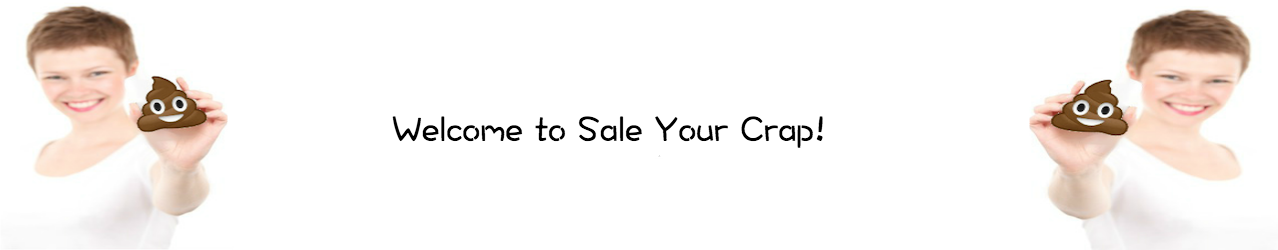
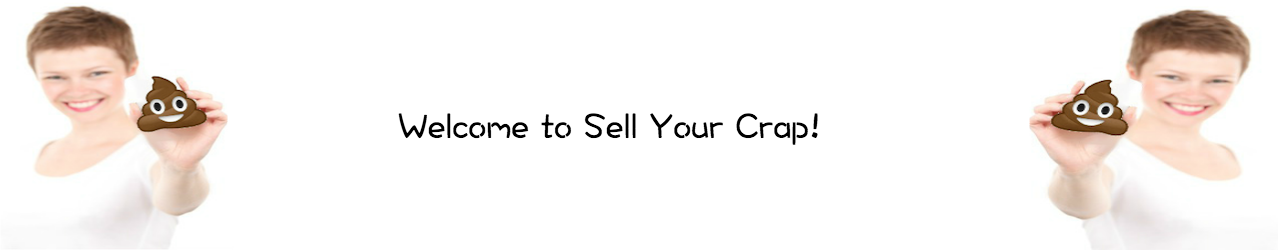
added different user_id to various ads in seeder changed the text within the img files

Changed region(s): [[0.3052, 0.448, 0.6714, 0.588]]

diff --git a/database/seeds/ads_seeder.php b/database/seeds/ads_seeder.php
@@ -30,77 +30,77 @@ $ad->price = 632.99;
 $ad->img_url = '/img/bmwclassic.jpg'; 
 $ad->save();
 $ad= new Ads; 
-$ad->user_id = 1; 
+$ad->user_id = 2; 
 $ad->name = 'Breakfast Buddy';
 $ad->description = 'Cook it all at once! No seperate dishes or pans here.'; 
 $ad->price = 13.45;
 $ad->img_url = '/img/breakfast.jpg';
 $ad->save();
 $ad= new Ads; 
-$ad->user_id = 1; 
+$ad->user_id = 3; 
 $ad->name = 'Breath Freshner';
 $ad->description = 'Try our breath mints, you\'ll thank us.'; 
 $ad->price = 2.22; 
 $ad->img_url = '/img/breathemints.jpg';
 $ad->save();
 $ad= new Ads; 
-$ad->user_id = 1; 
+$ad->user_id = 4; 
 $ad->name = 'Chikuns';
 $ad->description = 'Chikuns fur sell, cume an bye tu git yuo sem.';
 $ad->price = 27.64; 
 $ad->img_url = '/img/chikuns.jpg';
 $ad->save();
 $ad= new Ads; 
-$ad->user_id = 1; 
+$ad->user_id = 5; 
 $ad->name = 'Circumcision Trainer';
 $ad->description = 'Like new, minimal use. Great for residents in this field.';
 $ad->price = 342.77; 
 $ad->img_url = '/img/circumcisiontrainer.jpg';
 $ad->save();
 $ad= new Ads; 
-$ad->user_id = 1; 
+$ad->user_id = 6; 
 $ad->name = 'Coach Purse';
 $ad->description = 'Brand new. Never used. Coach purse.';
 $ad->price= 222.71;
 $ad->img_url = '/img/coachpurse.jpg';
 $ad->save();
 $ad= new Ads; 
-$ad->user_id = 1; 
+$ad->user_id = 7; 
 $ad->name = 'Limited Edition Converse';
 $ad->description = 'Limited Edition Converse Shoes, size 11.5 womens.';
 $ad->price= 38.50;
 $ad->img_url= '/img/converselimited.jpg';
 $ad->save();
 $ad= new Ads; 
-$ad->user_id = 1; 
+$ad->user_id = 8; 
 $ad->name = 'Desk Buddy';
 $ad->description = 'Let desk buddy do all the dirty work for you.'; 
 $ad->price = 56.56; 
 $ad->img_url= '/img/deskbuddy.jpg';
 $ad->save();
 $ad= new Ads; 
-$ad->user_id = 1; 
+$ad->user_id = 9; 
 $ad->name = 'Restruant For Sale';
 $ad->description = 'Dicks restruant for sale by owner.'; 
 $ad->price = 505207.79; 
 $ad->img_url= '/img/dickssale.jpg';
 $ad->save();
 $ad= new Ads; 
-$ad->user_id = 1; 
+$ad->user_id = 10; 
 $ad->name = 'Building For Lease';
 $ad->description = 'Building is for lease. 22,000 sq.ft.'; 
 $ad->price = 5000.01;
 $ad->img_url= '/img/forlease.jpg';
 $ad->save();
 $ad= new Ads; 
-$ad->user_id = 1; 
+$ad->user_id = 11; 
 $ad->name = 'Free DVDs';
 $ad->description = 'Mom caught my Step Dad watching these, all must go today. FREE!'; 
 $ad->price = 0.01; 
 $ad->img_url= '/img/freeporncollection.jpg';
 $ad->save();
 $ad= new Ads; 
-$ad->user_id = 1; 
+$ad->user_id = 12; 
 $ad->name = 'Fixer-Upper';
 $ad->description = 'Great Project car. Make offer.';
 $ad->price= 200.00;
@@ -114,77 +114,77 @@ $ad->price= 142.48;
 $ad->img_url= '/img/humanfat.png';
 $ad->save();
 $ad= new Ads; 
-$ad->user_id = 1; 
+$ad->user_id = 2; 
 $ad->name = 'Iphone';
 $ad->description = 'Rarely used original IPHONE. No low ballers! Cash only!';
 $ad->price= 205.09;
 $ad->img_url= '/img/iphone.jpg';
 $ad->save();
 $ad= new Ads; 
-$ad->user_id = 1; 
+$ad->user_id = 3; 
 $ad->name = 'Ipod Dock';
 $ad->description = 'Now you can dock your device and jam while on your thrown.';
 $ad->price= 37.77;
 $ad->img_url= '/img/ipoddock.jpg';
 $ad->save();
 $ad= new Ads; 
-$ad->user_id = 1; 
+$ad->user_id = 4; 
 $ad->name = 'Lake Front Property';
 $ad->description = 'New lake front residential area. You will have the joys of living near the water and the comforts of the city.';
 $ad->price= 305708.11;
 $ad->img_url= '/img/lakefrontproperty.jpg';
 $ad->save();
 $ad= new Ads; 
-$ad->user_id = 1; 
+$ad->user_id = 5; 
 $ad->name = 'Laptop 4 Sale';
 $ad->description = 'Slightly damaged laptop, running windows 98\'.';
 $ad->price= 20.20; 
 $ad->img_url= '/img/laptop.jpg'; 
 $ad->save();
 $ad= new Ads; 
-$ad->user_id = 1; 
+$ad->user_id = 6; 
 $ad->name = 'Louis Vuitton Wallet';
 $ad->description = 'Great wallet for that special man in your life.'; 
 $ad->price= 600.60;
 $ad->img_url= '/img/louisvuittonwallet.jpg'; 
 $ad->save();
 $ad= new Ads; 
-$ad->user_id = 1; 
+$ad->user_id = 7; 
 $ad->name = 'Drum of Lube';
 $ad->description = 'Perfect for your dorm room, or frat house!';  
 $ad->price= 45.99;  
 $ad->img_url= '/img/lube.png';
 $ad->save();
 $ad= new Ads; 
-$ad->user_id = 1; 
+$ad->user_id = 8; 
 $ad->name = 'Lucky the Dog';
 $ad->description = 'Blind, 3 legged, and deaf dog seeks forever home.';
 $ad->price= 10.15;
 $ad->img_url= '/img/luckydog.jpg';
 $ad->save();
 $ad= new Ads; 
-$ad->user_id = 1; 
+$ad->user_id = 9; 
 $ad->name = 'Macbook Pro';
 $ad->description = 'Macbook Pro, running Windows NT, great starter PC.';
 $ad->price= 1298.97;
 $ad->img_url= '/img/mac.jpg';
 $ad->save();
 $ad= new Ads; 
-$ad->user_id = 1; 
+$ad->user_id = 10; 
 $ad->name = 'Need New Glasses';
 $ad->description = 'Looks like you need a new prescription. Stop by Dr. Feilgud\'s today!';
 $ad->price= 102.22;
 $ad->img_url= '/img/needglasses.jpg';
 $ad->save();
 $ad= new Ads; 
-$ad->user_id = 1; 
+$ad->user_id = 11; 
 $ad->name = 'Nintendo Wii';
 $ad->description = 'Have a lot of Wii\'s im trying to unload. Make offer';
 $ad->price= 199.64;
 $ad->img_url= '/img/nintendowii.jpg';
 $ad->save();
 $ad= new Ads; 
-$ad->user_id = 1; 
+$ad->user_id = 12; 
 $ad->name = 'Cute Pullover';
 $ad->description = 'It\'s the panda pull over. Just great for that ugly sweater party.';
 $ad->price= 4.99;
@@ -198,112 +198,112 @@ $ad->price= .88;
 $ad->img_url= '/img/panties.jpg';
 $ad->save();
 $ad= new Ads; 
-$ad->user_id = 1; 
+$ad->user_id = 2; 
 $ad->name = 'Playstation';
 $ad->description = 'Selling my playstation, brand new in box. have some games too. hit me up.';
 $ad->price= 349.77;
 $ad->img_url= '/img/playstation.jpg';
 $ad->save();
 $ad= new Ads; 
-$ad->user_id = 1; 
+$ad->user_id = 3; 
 $ad->name = 'Port-A-Chair';
 $ad->description = 'Gently used Port-A-Chair, some stains remain near the seat area.';
 $ad->price= 562.32;
 $ad->img_url= '/img/portachair.jpg';
 $ad->save();
 $ad= new Ads; 
-$ad->user_id = 1; 
+$ad->user_id = 4; 
 $ad->name = 'Playstation PSP';
 $ad->description = 'Play your favorite PSP games with this new in box PSP by Playstation.';
 $ad->price= 148.60;
 $ad->img_url= '/img/pspplaystation.jpg';
 $ad->save();
 $ad= new Ads; 
-$ad->user_id = 1; 
+$ad->user_id = 5; 
 $ad->name = 'Quick Sale';
 $ad->description = 'Quick sale, Move in ready. Furniture included, make offer soon, because this house will not last long.';
 $ad->price= 205476.01;
 $ad->img_url= '/img/quickmoveinsale.jpg';
 $ad->save();
 $ad= new Ads; 
-$ad->user_id = 1; 
+$ad->user_id = 6; 
 $ad->name = 'Rabits';
 $ad->description = 'Rabites four sails, ate um\' or kaep um\' yore choose.';
 $ad->price= 2.99;
 $ad->img_url= '/img/rabits.jpg';
 $ad->save();
 $ad= new Ads; 
-$ad->user_id = 1; 
+$ad->user_id = 7; 
 $ad->name = 'Scooter the dog';
 $ad->description = 'Scooter the dog looking for his forever home.';
 $ad->price = 20.78;
 $ad->img_url = '/img/scooterdog.jpg';
 $ad->save();
 $ad= new Ads; 
-$ad->user_id = 1; 
+$ad->user_id = 8; 
 $ad->name = 'Free Snowmen';
 $ad->description = 'Free snowmen, some assembly required.';
 $ad->price = 0.01;
 $ad->img_url = '/img/snowmen.jpg';
 $ad->save();
 $ad= new Ads; 
-$ad->user_id = 1; 
+$ad->user_id = 9; 
 $ad->name = 'Multiplayer Tetris game';
 $ad->description = 'Never be bored again on a rainy day.';
 $ad->price = 12.77;
 $ad->img_url = '/img/tetrisgame.jpg';
 $ad->save();
 $ad= new Ads; 
-$ad->user_id = 1; 
+$ad->user_id = 10; 
 $ad-> name = 'Tiny the dog';
 $ad->description = 'Tiny the dog is looking for his forever home.';
 $ad->price = 203.03; 
 $ad->img_url = '/img/tinythedog.jpg';
 $ad->save();
 $ad= new Ads; 
-$ad->user_id = 1; 
+$ad->user_id = 11; 
 $ad->name = 'Classic Truck';
 $ad->description = 'Classic, has very few number of parts missing. Great for person who wants to learn how to assymble a vehicle.';
 $ad->price = 10738.88;
 $ad->img_url =  '/img/truck.jpg';
 $ad->save();
 $ad= new Ads; 
-$ad->user_id = 1; 
+$ad->user_id = 12; 
 $ad->name = '32" TV 4 sale';
 $ad->description = '32 in. TV for sale. Has great 420p resolution and comes with oem remote.';
 $ad->price = 47.74;
 $ad->img_url = '/img/tv.jpg';
 $ad->save();
 $ad= new Ads; 
-$ad->user_id = 1; 
+$ad->user_id = 13; 
 $ad->name = 'Unicorn Meat'; 
 $ad->description  = 'Unique, one off exotic specialty canned meats. Every can comes with a letter of Authenticity.';
 $ad->price = 1000000.03;  
 $ad->img_url = '/img/unicornmeat.jpg';
 $ad->save();
 $ad= new Ads; 
-$ad->user_id = 1; 
+$ad->user_id = 14; 
 $ad->name = 'Uranium Ore';
 $ad->description = 'For the nuclear physicist in your life.';
 $ad->price = 75000.00;
 $ad->img_url = '/img/uraniumore.png';
 $ad->save();
 $ad= new Ads; 
-$ad->user_id = 1; 
+$ad->user_id = 15; 
 $ad->name = 'Used Cows';
 $ad->description = 'You read it right. These heffers were well taken care of and ready for sale.';
 $ad->price = 150.42;
 $ad->img_url = '/img/usedcows.jpg';
 $ad->save();
 $ad= new Ads; 
-$ad->user_id = 1; 
+$ad->user_id = 16; 
 $ad->name = 'Yard Gnomes';
 $ad->description = 'Fraternity selling our yard gnomes. Buy one get 2 free!';
 $ad->price= 17.89;
 $ad->img_url= '/img/yardnomes.jpg';
 $ad->save();
 $ad= new Ads; 
-$ad->user_id = 1; 
+$ad->user_id = 17; 
 $ad->name = 'Yard Sale';
 $ad->description = 'Another one bites the dust. Come take advantage of these prices, they are to die for!';
 $ad->price = 0.01;
